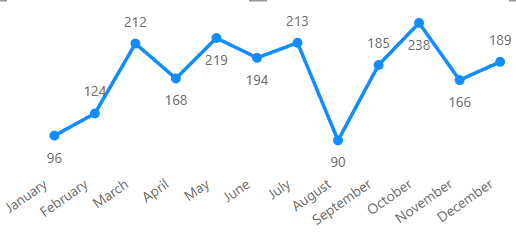
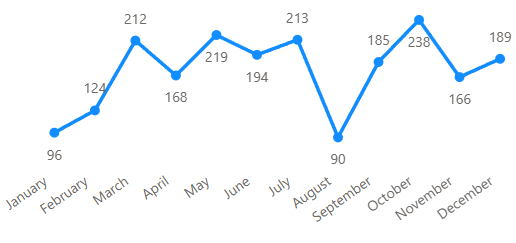
Update Image

diff --git a/README.md b/README.md
@@ -1,4 +1,4 @@
-**NOTE**: This project was part of my contractual work for the business, conducted with the approval and consent of the business owner for educational purposes. Certain information has been removed to protect the business's privacy.
+**NOTE: This project was part of my contractual work for the business, conducted with the approval and consent of the business owner for educational purposes. Certain information has been removed to protect the business's privacy.**
 
 # Introduction
 
@@ -194,7 +194,7 @@ You can download the Power BI dashboard [here](code/LeuleuReport.pbix):
 - Overall, the business has spent around **3.7M Chinese Yuan** during the given period, purchasing **581,000 items across 2,598 orders**.
 - **Order Seasonality**: In 2023 and 2024 (excluding 2022 and 2025 due to incomplete data), the highest order volumes were observed in May (219 orders), July (213 orders), and October (238 orders). This suggests a seasonal purchasing pattern, likely driven by preparations for peak demand periods, such as **summer** and **winter**:
 
-    <img src='image/Seasonal_trend.png' width='300'>
+    <img src='image/Seasonal_trend.png' width='900'>
 
     *Seasonal Trend*
 
@@ -204,19 +204,19 @@ You can download the Power BI dashboard [here](code/LeuleuReport.pbix):
 - Despite total spending being the same for **2023 and 2024, around ¥1,5M**, the number of orders increased by 470 in 2024, suggesting a shift toward **lower-cost items** or **smaller, more frequent purchases**.  
 - Additionally, the **average spending per order** has steadily decreased, from ¥1,818 in 2022 to ¥872 in 2025. This trend suggests that the business is either adopting a lower pricing strategy or increasing order frequency while reducing the number of items per order. 
 
-    <img src='image/Spent_per_order.png' width=300>
+    <img src='image/Spent_per_order.png' width=900>
 
     *Average spent per order*
 
 - The **Monthly Volume of Orders chart** supports this observation, showing that while **average items per order have declined each year, average orders per month have significantly increased** (except for 2025, which currently only includes January—a historically low-order month).
 
-    <img src='image/Monthly_volume.png' width=300>
+    <img src='image/Monthly_volume.png' width=900>
 
     *Monthly volume of orders*
 
 - The **Supplier Summary Table** provides insights into this strategy. The number of suppliers increased from **186 in 2022 to 325 in 2023, and 610 in 2024—a 200% annual growth rate**. This suggests the business is actively **sourcing from more suppliers** to **diversify its product offerings**, leading to an increase in order frequency while reducing the quantity per order.
 
-     <img src='image/Num_of_supplier.png' width=300>
+     <img src='image/Num_of_supplier.png' width=900>
 
     *Bar chart demonstrating the number of suppliers per year*
 
